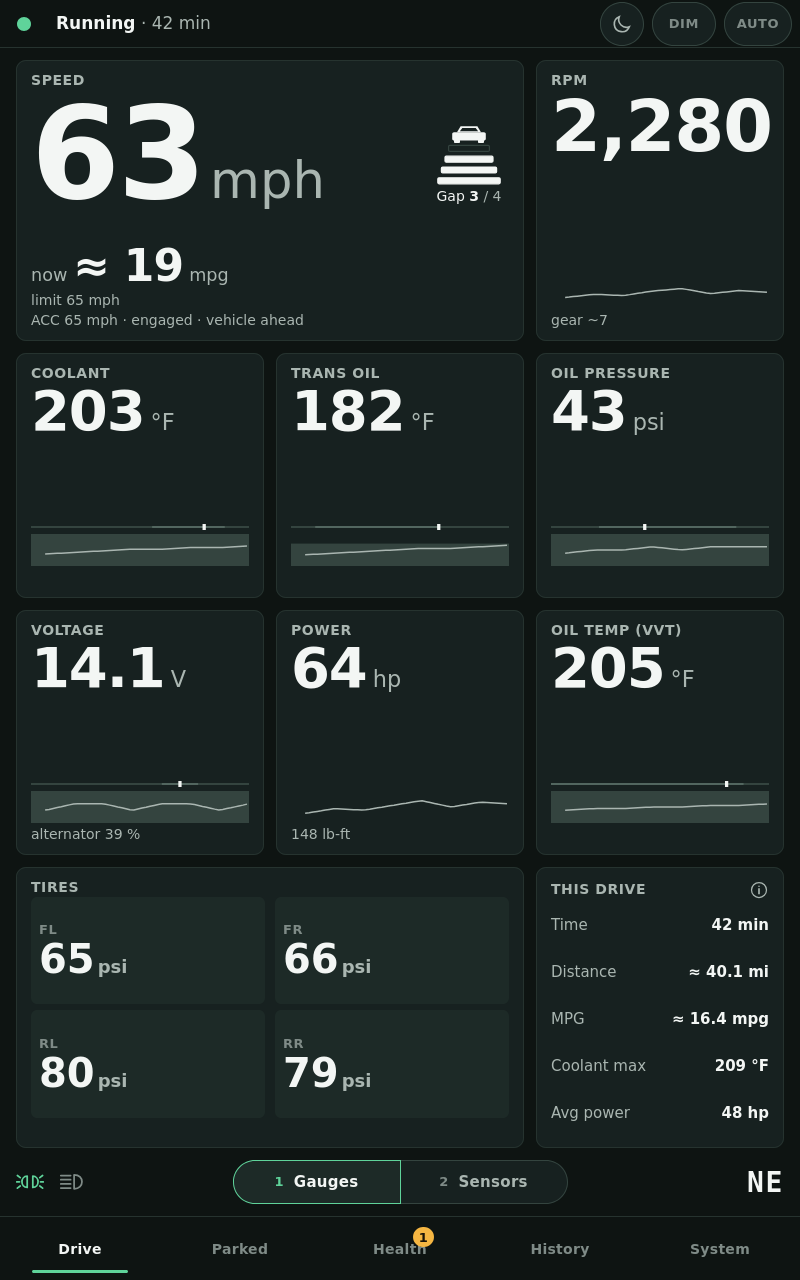
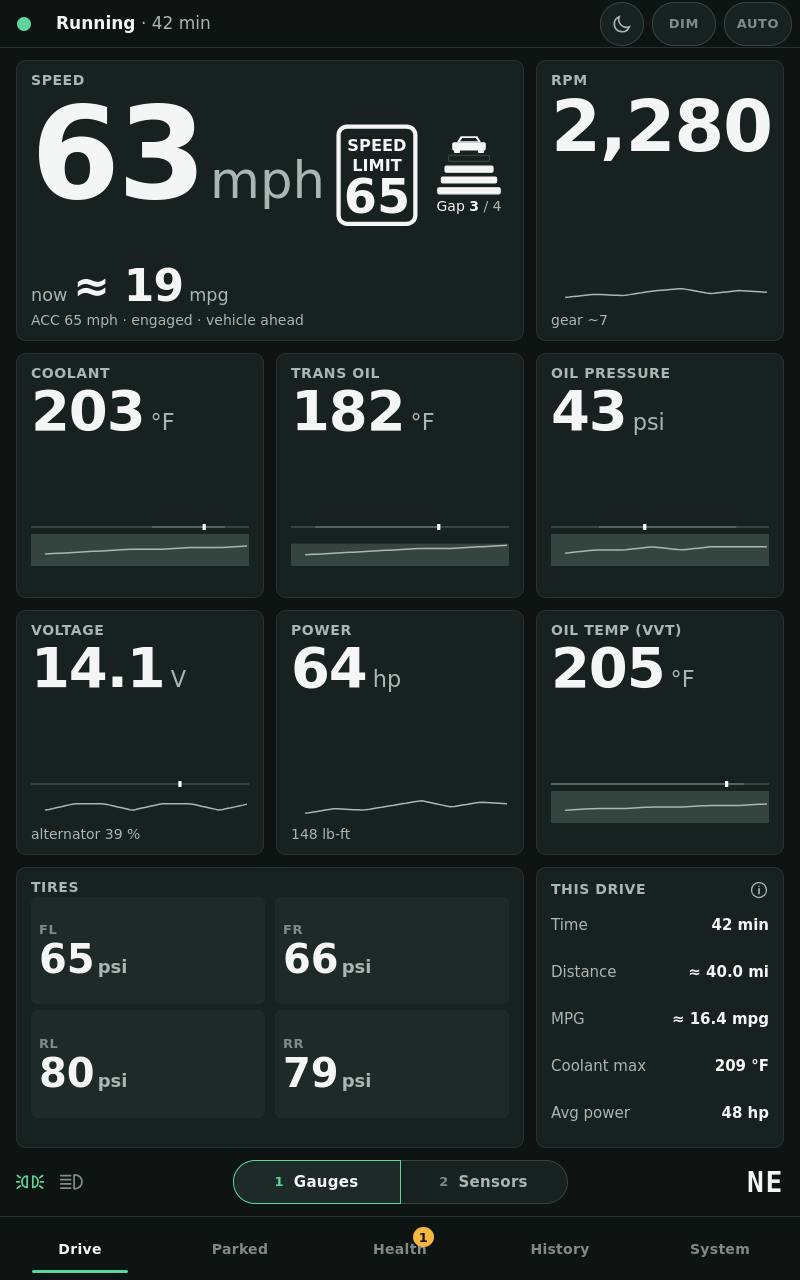
Refresh the README Drive capture with the speed-limit sign
Build 22f4963f9a4e puts a SPEED LIMIT sign beside the Speed numeral and
drops the footer's limit line, so the old page-1 image no longer matched
the app. Same illustrative demo scene (tools/demo_data.mjs), shot from the
live build in the dark theme.

Changed region(s): [[0.4062, 0.0938, 0.625, 0.1875], [0.0312, 0.5938, 0.3125, 0.6562], [0.0312, 0.1875, 0.2812, 0.25]]

diff --git a/README.md b/README.md
@@ -11,7 +11,7 @@ with each investigation living under `projects/<name>/`.
 ## Telemetry dashboard
 
 <p align="center">
-  <img src="projects/vehicle_data/dashboard/screenshots/01-drive-gauges.png" width="380" alt="Drive gauges view with illustrative demo data: 63 mph with instant fuel economy under the speed, RPM, temperatures, oil pressure, charging voltage, power, tire pressures, This drive time, distance and fuel economy, and light indicators">
+  <img src="projects/vehicle_data/dashboard/screenshots/01-drive-gauges.png" width="380" alt="Drive gauges view with illustrative demo data: 63 mph with a speed limit 65 sign beside it and instant fuel economy under the speed, RPM, temperatures, oil pressure, charging voltage, power, tire pressures, This drive time, distance and fuel economy, and light indicators">
   <img src="projects/vehicle_data/dashboard/screenshots/17-drive-live-fuel-economy.png" width="380" alt="Drive sensors view with an estimated fuel rate of 3.3 gallons per hour and instant economy of 19 mpg, adaptive cruise, estimated gear, radar aim, and transmission speeds">
 </p>
 
